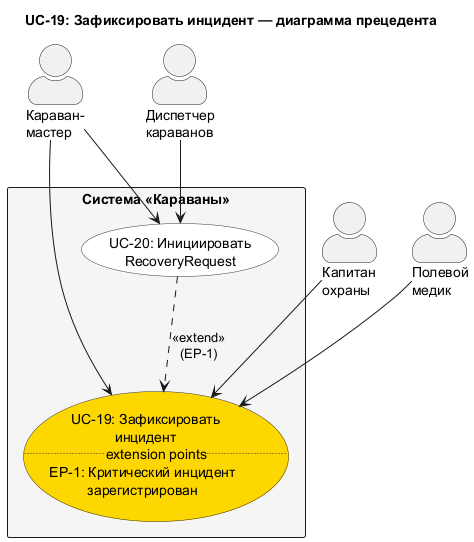
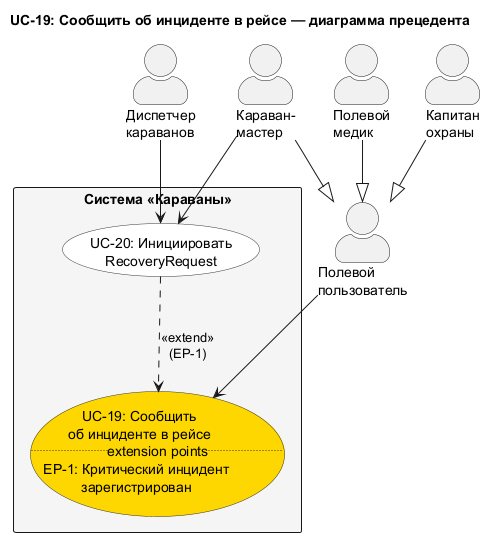
Update usecases

diff --git a/CoreUseCases.md b/CoreUseCases.md
@@ -8,8 +8,8 @@
 |---|-----------|----------------------|
 | UC-1  | Создать заявку на перевозку                    | Ядро системы: связывает маршрут, risk_score, команду, груз, интеграция с Wasteland Intel |
 | UC-7  | Рассчитать risk_score                          | Интеграция с внешней системой, обработка недоступности и устаревших данных |
-| UC-16 | Подтвердить ключевые этапы рейса               | Офлайн-синхронизация Pip-Boy, state machine статусов, CheckpointLog |
-| UC-19 | Зафиксировать инцидент                         | Офлайн-фиксация, 3 актора, автопереход статуса, триггер RecoveryRequest |
+| UC-16 | Зафиксировать прохождение этапа рейса          | Офлайн-синхронизация полевого устройства, state machine статусов, CheckpointLog |
+| UC-19 | Сообщить об инциденте в рейсе                  | Офлайн-фиксация, обобщение полевых акторов, автопереход статуса, триггер RecoveryRequest |
 | UC-32 | Создать организацию                            | Мультитенантность, изоляция данных, создание диспетчера в рамках организации |
 
 ---
@@ -63,19 +63,19 @@ _Исходник: [mockups/uc7_risk_score.html](mockups/uc7_risk_score.html)_
 
 ---
 
-## UC-16. Подтвердить ключевые этапы рейса
+## UC-16. Зафиксировать прохождение этапа рейса
 
-| Прецедент: Подтвердить ключевые этапы рейса |
+| Прецедент: Зафиксировать прохождение этапа рейса |
 |:---|
 | **ID:** UC-16 |
-| **Краткое описание:** Караван-мастер подтверждает ключевые этапы: загрузка, выход, прибытие на контрольные точки, доставка груза. |
+| **Краткое описание:** Караван-мастер фиксирует факт прохождения очередного физического этапа рейса (загрузка завершена, караван вышел, прибытие на контрольную точку, груз выдан получателю). Результат — запись в CheckpointLog и переход рейса на следующий статус. |
 | **Главные актёры:** Караван-мастер |
 | **Второстепенные актёры:** Нет |
-| **Предусловия:**<br>1. Караван-мастер аутентифицирован и назначен на рейс.<br>2. Рейс находится в статусе Ready или En Route. |
-| **Основной поток:**<br>1. Караван-мастер открывает карточку рейса на Pip-Boy.<br>2. Система отображает текущий этап рейса и список предстоящих этапов.<br>3. Караван-мастер выбирает действие «Подтвердить этап» для текущего этапа (загрузка завершена / караван вышел / прибытие на контрольную точку / груз доставлен).<br>4. Система автоматически фиксирует временную метку и координаты.<br>5. Система выполняет переход статуса рейса согласно статусной модели (например, Ready → En Route при подтверждении выхода).<br>6. Система сохраняет запись в CheckpointLog.<br>7. Если есть связь с сервером — данные синхронизируются немедленно. |
+| **Предусловия:**<br>1. Караван-мастер аутентифицирован и назначен на рейс.<br>2. Рейс находится в статусе Ready или En Route.<br>3. В пути произошло физическое событие, требующее фиксации (загрузка груза завершена / караван покинул исходный пункт / караван прибыл на контрольную точку маршрута / груз выдан получателю в пункте назначения). |
+| **Основной поток:**<br>1. Караван-мастер открывает карточку рейса на полевом устройстве.<br>2. Система отображает текущий этап рейса и список предстоящих этапов.<br>3. Караван-мастер выбирает физическое событие, которое произошло в пути.<br>4. Система автоматически фиксирует временную метку и координаты события.<br>5. Система выполняет переход статуса рейса согласно статусной модели (например, Ready → En Route при выходе каравана).<br>6. Система сохраняет запись в CheckpointLog. |
 | **Постусловия:**<br>1. Этап рейса зафиксирован с временной меткой и координатами.<br>2. Статус рейса обновлён в соответствии со статусной моделью.<br>3. Запись добавлена в CheckpointLog. |
-| **Альтернативные потоки:**<br>7а. Связь с сервером отсутствует — данные сохраняются локально на Pip-Boy и автоматически синхронизируются при восстановлении соединения. При синхронизации сервер проверяет временные метки и применяет события в хронологическом порядке.<br>5а. Караван-мастер пытается подтвердить этап вне допустимого порядка (например, «доставлен» без «вышел») — система отклоняет действие и отображает сообщение о необходимости подтвердить предыдущий этап. |
-| **Точки расширения:**<br>EP-1 «Прибытие на контрольную точку» (шаг 3, этап «прибытие на КТ») — расширяется UC-17 «Отметить прохождение контрольной точки».<br>EP-2 «Прохождение КПП» (шаг 3, этап «прибытие на КПП») — расширяется UC-18 «Отметить прохождение КПП (с пошлиной)».<br>EP-3 «Подтверждение доставки» (шаг 3, этап «груз доставлен») — расширяется UC-14 «Подтвердить доставку груза (с пломбой)». |
+| **Альтернативные потоки:**<br>5а. Караван-мастер пытается зафиксировать этап вне допустимого порядка (например, «доставлен» без «вышел») — система отклоняет действие и отображает сообщение о необходимости зафиксировать предыдущий этап.<br>6а. Связь с сервером отсутствует — данные сохраняются локально на полевом устройстве и автоматически синхронизируются при восстановлении соединения. При синхронизации сервер применяет события в хронологическом порядке. |
+| **Точки расширения:**<br>EP-1 «Прибытие на контрольную точку» (шаг 3, событие «прибытие на КТ») — расширяется UC-17 «Отметить прохождение контрольной точки».<br>EP-2 «Прохождение КПП» (шаг 3, событие «прибытие на КПП») — расширяется UC-18 «Отметить прохождение КПП (с пошлиной)».<br>EP-3 «Подтверждение доставки» (шаг 3, событие «груз выдан получателю») — расширяется UC-14 «Подтвердить доставку груза (с пломбой)». |
 
 ![Диаграмма прецедента UC-16](diagrams/out/UC_16_Detail.png)
 
@@ -87,18 +87,18 @@ _Исходник: [mockups/uc16_caravan_stages.html](mockups/uc16_caravan_stage
 
 ---
 
-## UC-19. Зафиксировать инцидент
+## UC-19. Сообщить об инциденте в рейсе
 
-| Прецедент: Зафиксировать инцидент |
+| Прецедент: Сообщить об инциденте в рейсе |
 |:---|
 | **ID:** UC-19 |
-| **Краткое описание:** Полевой пользователь фиксирует инцидент через форму: тип, тяжесть, описание; время и координаты фиксируются автоматически. |
-| **Главные актёры:** Караван-мастер, Капитан охраны, Полевой медик |
+| **Краткое описание:** Полевой пользователь сообщает о произошедшем в рейсе инциденте (нападение, поломка, медицинское происшествие, потеря груза и т.п.). Результат — карточка инцидента зарегистрирована, диспетчер уведомлён, при необходимости запускается реагирование. |
+| **Главные актёры:** Полевой пользователь (обобщает Караван-мастера, Капитана охраны, Полевого медика) |
 | **Второстепенные актёры:** Нет |
-| **Предусловия:**<br>1. Пользователь аутентифицирован и назначен на рейс.<br>2. Рейс находится в статусе En Route или Delayed. |
-| **Основной поток:**<br>1. Полевой пользователь открывает форму фиксации инцидента на Pip-Boy.<br>2. Система автоматически заполняет временную метку и координаты на основе данных устройства.<br>3. Пользователь выбирает тип инцидента из предопределённого списка (нападение, поломка, медицинское происшествие, потеря груза, стихийное бедствие, прочее).<br>4. Пользователь указывает тяжесть инцидента (низкая, средняя, высокая, критическая).<br>5. Пользователь вводит текстовое описание и при необходимости указывает пострадавших участников команды.<br>6. Пользователь подтверждает отправку.<br>7. Система сохраняет карточку инцидента и привязывает её к текущему рейсу.<br>8. Если тяжесть «высокая» или «критическая» — система автоматически переводит рейс в статус Delayed.<br>9. Если есть связь — данные синхронизируются с сервером и диспетчер получает уведомление. |
-| **Постусловия:**<br>1. Карточка инцидента создана и привязана к рейсу.<br>2. При высокой/критической тяжести статус рейса изменён на Delayed.<br>3. Диспетчер уведомлён об инциденте (при наличии связи). |
-| **Альтернативные потоки:**<br>9а. Связь отсутствует — карточка инцидента сохраняется локально на Pip-Boy и синхронизируется при восстановлении соединения; при синхронизации диспетчер получает уведомление с фактическим временем инцидента.<br>6а. Пользователь отменяет заполнение — карточка не сохраняется. |
+| **Предусловия:**<br>1. Полевой пользователь аутентифицирован и назначен на рейс.<br>2. Рейс находится в статусе En Route или Delayed.<br>3. В рейсе произошло событие, требующее эскалации (нападение, поломка, медицинское происшествие, потеря груза, стихийное бедствие). |
+| **Основной поток:**<br>1. Полевой пользователь открывает форму сообщения об инциденте на полевом устройстве.<br>2. Система автоматически заполняет временную метку и координаты.<br>3. Пользователь выбирает тип инцидента из предопределённого списка.<br>4. Пользователь указывает тяжесть инцидента (низкая, средняя, высокая, критическая).<br>5. Пользователь добавляет описание и при необходимости отмечает пострадавших участников команды.<br>6. Пользователь подтверждает отправку сообщения.<br>7. Система регистрирует карточку инцидента и привязывает её к текущему рейсу.<br>8. Если тяжесть «высокая» или «критическая» — система автоматически переводит рейс в статус Delayed.<br>9. Система передаёт уведомление диспетчеру. |
+| **Постусловия:**<br>1. Карточка инцидента зарегистрирована и привязана к рейсу.<br>2. При высокой/критической тяжести статус рейса изменён на Delayed.<br>3. Диспетчер уведомлён об инциденте. |
+| **Альтернативные потоки:**<br>9а. Связь отсутствует — карточка сохраняется локально и синхронизируется при восстановлении соединения; уведомление диспетчеру отправляется при синхронизации с фактическим временем инцидента.<br>6а. Пользователь отменяет заполнение — карточка не регистрируется. |
 | **Точки расширения:**<br>EP-1 «Критический инцидент зарегистрирован» (после шага 8, при тяжести «высокая» или «критическая») — расширяется UC-20 «Инициировать RecoveryRequest» (эвакуация, подмога, повторная доставка). |
 
 ![Диаграмма прецедента UC-19](diagrams/out/UC_19_Detail.png)

diff --git a/UseCases.md b/UseCases.md
@@ -11,6 +11,7 @@
 | Капитан охраны | Полевой | Безопасность рейса, фиксация угроз и инцидентов |
 | Полевой медик | Полевой | Медприпасы, медицинская часть инцидентов |
 | Суперпользователь | Стационарный | Администратор платформы, управление организациями |
+| **Полевой пользователь** _(абстрактный)_ | Полевой | Обобщает Караван-мастера, Капитана охраны и Полевого медика для прецедентов, в которых участвуют все три полевые роли |
 
 ### Внешние системы
 | Актор | Описание |
@@ -68,10 +69,10 @@
 ### Полевые операции
 | # | Прецедент | Акторы |
 |---|-----------|--------|
-| UC-16 | Подтвердить ключевые этапы рейса | Караван-мастер | - IMPORTANT
+| UC-16 | Зафиксировать прохождение этапа рейса | Караван-мастер | - IMPORTANT
 | UC-17 | Отметить прохождение контрольной точки | Караван-мастер |
 | UC-18 | Отметить прохождение КПП (с пошлиной) | Караван-мастер, NCR Checkpoint |
-| UC-19 | Зафиксировать инцидент | Караван-мастер, Капитан охраны, Полевой медик | - IMPORTANT
+| UC-19 | Сообщить об инциденте в рейсе | Полевой пользователь | - IMPORTANT
 | UC-20 | Инициировать RecoveryRequest | Диспетчер, Караван-мастер |
 
 ![UC-16..UC-20: Полевые операции](diagrams/out/UC_5_Field.png)
@@ -295,16 +296,12 @@
 
 ### Полевые операции
 
-| Прецедент: Подтвердить ключевые этапы рейса |
+| Прецедент: Зафиксировать прохождение этапа рейса |
 |:---|
 | **ID:** UC-16 |
-| **Краткое описание:** Караван-мастер подтверждает ключевые этапы: загрузка, выход, прибытие на контрольные точки, доставка груза. |
+| **Краткое описание:** Караван-мастер фиксирует факт прохождения очередного физического этапа рейса (загрузка завершена, караван вышел, прибытие на контрольную точку, груз выдан получателю). См. полное описание в [CoreUseCases.md](CoreUseCases.md#uc-16-зафиксировать-прохождение-этапа-рейса). |
 | **Главные актёры:** Караван-мастер |
 | **Второстепенные актёры:** Нет |
-| **Предусловия:**<br>1. Караван-мастер аутентифицирован и назначен на рейс.<br>2. Рейс находится в статусе Ready или En Route. |
-| **Основной поток:**<br>1. Караван-мастер открывает карточку рейса на Pip-Boy.<br>2. Система отображает текущий этап рейса и список предстоящих этапов.<br>3. Караван-мастер выбирает действие «Подтвердить этап» для текущего этапа (загрузка завершена / караван вышел / прибытие на контрольную точку / груз доставлен).<br>4. Система автоматически фиксирует временную метку и координаты.<br>5. Система выполняет переход статуса рейса согласно статусной модели (например, Ready → En Route при подтверждении выхода).<br>6. Система сохраняет запись в CheckpointLog.<br>7. Если есть связь с сервером — данные синхронизируются немедленно. |
-| **Постусловия:**<br>1. Этап рейса зафиксирован с временной меткой и координатами.<br>2. Статус рейса обновлён в соответствии со статусной моделью.<br>3. Запись добавлена в CheckpointLog. |
-| **Альтернативные потоки:**<br>7а. Связь с сервером отсутствует — данные сохраняются локально на Pip-Boy и автоматически синхронизируются при восстановлении соединения. При синхронизации сервер проверяет временные метки и применяет события в хронологическом порядке.<br>5а. Караван-мастер пытается подтвердить этап вне допустимого порядка (например, «доставлен» без «вышел») — система отклоняет действие и отображает сообщение о необходимости подтвердить предыдущий этап. |
 
 ![Диаграмма активности UC-16](diagrams/out/UC_16_Activity.png)
 
@@ -330,16 +327,12 @@
 | **Постусловия:**<br>|
 | **Альтернативные потоки:**<br>|
 
-| Прецедент: Зафиксировать инцидент |
+| Прецедент: Сообщить об инциденте в рейсе |
 |:---|
 | **ID:** UC-19 |
-| **Краткое описание:** Полевой пользователь фиксирует инцидент через форму: тип, тяжесть, описание; время и координаты фиксируются автоматически. |
-| **Главные актёры:** Караван-мастер, Капитан охраны, Полевой медик |
+| **Краткое описание:** Полевой пользователь сообщает о произошедшем в рейсе инциденте; результат — карточка инцидента зарегистрирована, диспетчер уведомлён, при необходимости запускается реагирование. См. полное описание в [CoreUseCases.md](CoreUseCases.md#uc-19-сообщить-об-инциденте-в-рейсе). |
+| **Главные актёры:** Полевой пользователь (обобщает Караван-мастера, Капитана охраны, Полевого медика) |
 | **Второстепенные актёры:** Нет |
-| **Предусловия:**<br>1. Пользователь аутентифицирован и назначен на рейс.<br>2. Рейс находится в статусе En Route или Delayed. |
-| **Основной поток:**<br>1. Полевой пользователь открывает форму фиксации инцидента на Pip-Boy.<br>2. Система автоматически заполняет временную метку и координаты на основе данных устройства.<br>3. Пользователь выбирает тип инцидента из предопределённого списка (нападение, поломка, медицинское происшествие, потеря груза, стихийное бедствие, прочее).<br>4. Пользователь указывает тяжесть инцидента (низкая, средняя, высокая, критическая).<br>5. Пользователь вводит текстовое описание и при необходимости указывает пострадавших участников команды.<br>6. Пользователь подтверждает отправку.<br>7. Система сохраняет карточку инцидента и привязывает её к текущему рейсу.<br>8. Если тяжесть «высокая» или «критическая» — система автоматически переводит рейс в статус Delayed.<br>9. Если есть связь — данные синхронизируются с сервером и диспетчер получает уведомление. |
-| **Постусловия:**<br>1. Карточка инцидента создана и привязана к рейсу.<br>2. При высокой/критической тяжести статус рейса изменён на Delayed.<br>3. Диспетчер уведомлён об инциденте (при наличии связи). |
-| **Альтернативные потоки:**<br>9а. Связь отсутствует — карточка инцидента сохраняется локально на Pip-Boy и синхронизируется при восстановлении соединения; при синхронизации диспетчер получает уведомление с фактическим временем инцидента.<br>6а. Пользователь отменяет заполнение — карточка не сохраняется.<br>8а. После фиксации инцидента критической тяжести караван-мастер или диспетчер может инициировать RecoveryRequest (UC-20). |
 
 ![Диаграмма активности UC-19](diagrams/out/UC_19_Activity.png)
 

diff --git a/Glossary_Karavany_FNV.md b/Glossary_Karavany_FNV.md
@@ -34,6 +34,7 @@
 | Кладовщик | Складская роль: формирует манифест, пломбы и резервы припасов. |
 | Капитан охраны | Роль безопасности: определяет охрану и фиксирует угрозы/потери. |
 | Полевой медик | Медицинская роль: ведёт медприпасы и медчасть инцидентов. |
+| Полевой пользователь | Абстрактная роль, обобщающая участников рейса, работающих в полевых условиях через Pip-Boy: караван-мастера, капитана охраны и полевого медика. Используется в прецедентах, где все три роли совершают одно и то же действие (например, сообщение об инциденте). |
 | Голотейп | Стандартный носитель данных Пустоши |
 | Терминал (стационарный) | Стационарное рабочее место пользователя — персональный компьютер с монитором (разрешение не менее 1280×720), клавиатурой и манипулятором «мышь», подключённый к локальной сети организации, с установленным современным веб-браузером (Chrome, Firefox или аналог). Используется диспетчером, кладовщиком и суперпользователем для работы с веб-интерфейсом системы. |
 | ПипБой (PipBoy) | Аналог смартфона в Пустоши |
